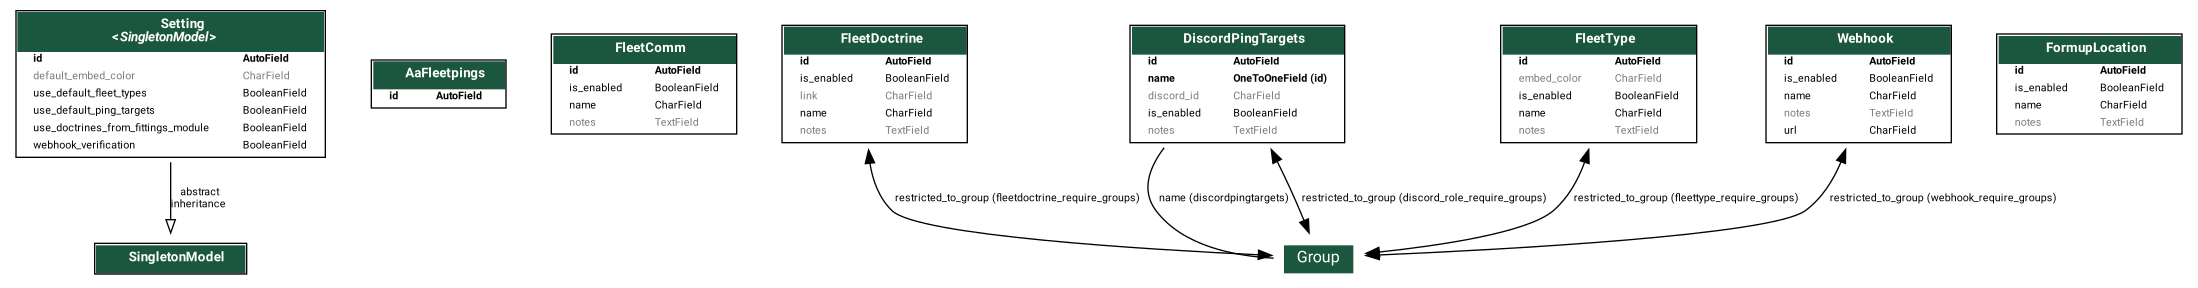
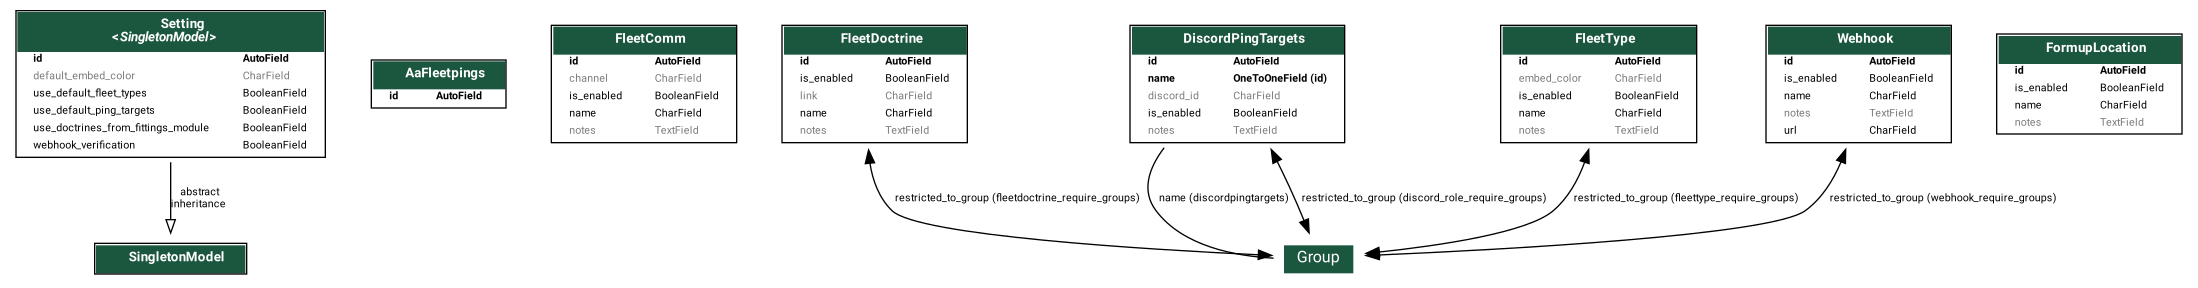
[ADDED] Optional channel name to fleet comms

Changed region(s): [[0.2475, 0.0625, 0.3403, 0.5]]

diff --git a/fleetpings/tests/test_model_fleetcomm.py b/fleetpings/tests/test_model_fleetcomm.py
@@ -1,0 +1,60 @@
+"""
+Test for model FleetComm
+"""
+
+# Django
+from django.db.utils import IntegrityError
+from django.test import TestCase
+
+# AA Fleet Pings
+from fleetpings.models import FleetComm
+
+
+class TestModelFleetComm(TestCase):
+    """
+    Testing FleetComm model
+    """
+
+    def test_should_return_fleetcomm_model_string_name(self):
+        """
+        Test should return the FleetComm model string name
+        :return:
+        :rtype:
+        """
+
+        test_object = FleetComm(name="Alliance Mumble")
+        test_object_with_channel = FleetComm(name="Alliance Mumble", channel="Fleet 1")
+
+        test_object.save()
+        test_object_with_channel.save()
+
+        self.assertEqual(str(test_object), "Alliance Mumble")
+        self.assertEqual(str(test_object_with_channel), "Alliance Mumble » Fleet 1")
+
+    def test_should_throw_integrity_error_for_duplicate_comms_without_channel(self):
+        """
+        Test should throw an IntegrityError for duplicate commas without a channel
+        :return:
+        :rtype:
+        """
+
+        FleetComm(name="Alliance Mumble").save()
+
+        new_fleetcomm = FleetComm(name="Alliance Mumble")
+
+        with self.assertRaises(IntegrityError):
+            new_fleetcomm.save()
+
+    def test_should_throw_integrity_error_for_duplicate_comms_with_channel(self):
+        """
+        Test should throw an IntegrityError for duplicate commas with a channel
+        :return:
+        :rtype:
+        """
+
+        FleetComm(name="Alliance Mumble", channel="Fleet 1").save()
+
+        new_fleetcomm = FleetComm(name="Alliance Mumble", channel="Fleet 1")
+
+        with self.assertRaises(IntegrityError):
+            new_fleetcomm.save()

diff --git a/fleetpings/migrations/0013_fleetcomm_channel.py b/fleetpings/migrations/0013_fleetcomm_channel.py
@@ -1,0 +1,36 @@
+# Generated by Django 4.0.10 on 2023-05-30 16:51
+
+# Django
+from django.db import migrations, models
+
+
+class Migration(migrations.Migration):
+    dependencies = [
+        ("fleetpings", "0012_migrate_app_settings_from_local_py_to_database"),
+    ]
+
+    operations = [
+        migrations.AddField(
+            model_name="fleetcomm",
+            name="channel",
+            field=models.CharField(
+                blank=True,
+                help_text="In which channel is the fleet?",
+                max_length=255,
+                verbose_name="Channel",
+            ),
+        ),
+        migrations.AlterField(
+            model_name="fleetcomm",
+            name="name",
+            field=models.CharField(
+                help_text="Short name to identify this comms",
+                max_length=255,
+                verbose_name="Name",
+            ),
+        ),
+        migrations.AlterUniqueTogether(
+            name="fleetcomm",
+            unique_together={("name", "channel")},
+        ),
+    ]

diff --git a/fleetpings/models.py b/fleetpings/models.py
@@ -112,9 +112,15 @@ class FleetComm(models.Model):
 
     name = models.CharField(
         max_length=255,
-        unique=True,
         help_text=_("Short name to identify this comms"),
         verbose_name=_("Name"),
+    )
+
+    channel = models.CharField(
+        blank=True,
+        max_length=255,
+        help_text=_("In which channel is the fleet?"),
+        verbose_name=_("Channel"),
     )
 
     notes = models.TextField(
@@ -132,7 +138,7 @@ class FleetComm(models.Model):
     )
 
     def __str__(self) -> str:
-        return str(self.name)
+        return f"{self.name} » {self.channel}" if self.channel else f"{self.name}"
 
     class Meta:  # pylint: disable=too-few-public-methods
         """
@@ -142,6 +148,8 @@ class FleetComm(models.Model):
         verbose_name = _("Fleet Comm")
         verbose_name_plural = _("Fleet Comms")
         default_permissions = ()
+
+        unique_together = ("name", "channel")
 
 
 # FleetDoctrine Model

diff --git a/fleetpings/tests/test_models.py b/fleetpings/tests/test_models.py
@@ -14,7 +14,6 @@ from django.test import TestCase
 # AA Fleet Pings
 from fleetpings.models import (
     DiscordPingTargets,
-    FleetComm,
     FleetDoctrine,
     FleetType,
     FormupLocation,
@@ -129,19 +128,6 @@ class TestModels(TestCase):
     #         expected_message=("This group has not been synced to Discord yet."),
     #     ):
     #         ping_target.clean()
-
-    def test_should_return_fleetcomm_model_string_name(self):
-        """
-        Test should return the FleetComm model string name
-        :return:
-        :rtype:
-        """
-
-        test_object = FleetComm(name="Alliance Mumble")
-
-        test_object.save()
-
-        self.assertEqual(str(test_object), "Alliance Mumble")
 
     def test_should_return_fleetdoctrine_model_string_name(self):
         """

diff --git a/fleetpings/admin.py b/fleetpings/admin.py
@@ -92,8 +92,8 @@ class FleetCommAdmin(admin.ModelAdmin):
     FleetCommAdmin
     """
 
-    list_display = ("_name", "notes", "is_enabled")
-    ordering = ("name",)
+    list_display = ("_name", "channel", "notes", "is_enabled")
+    ordering = ("name", "channel")
     list_filter = ("is_enabled",)
 
     @classmethod
